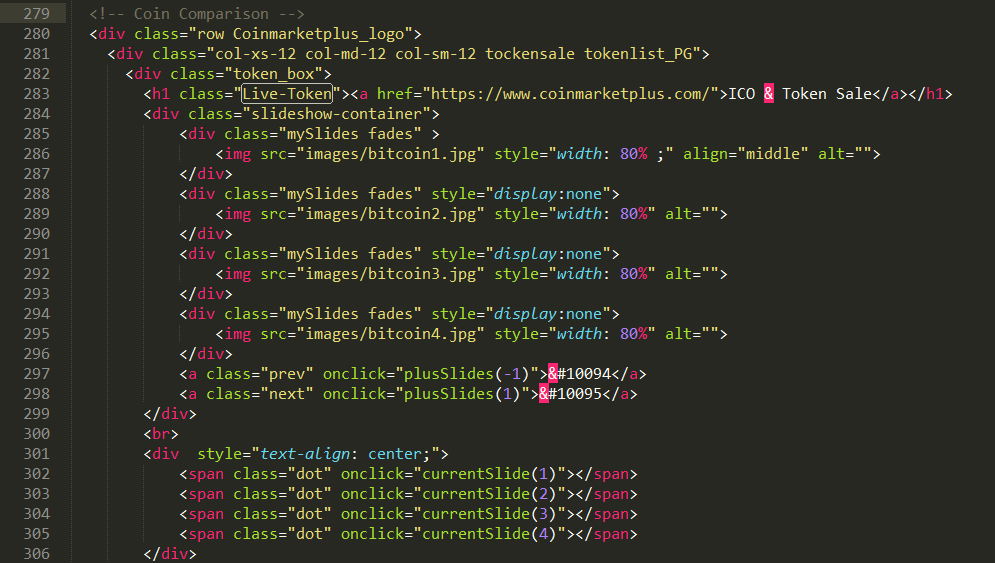
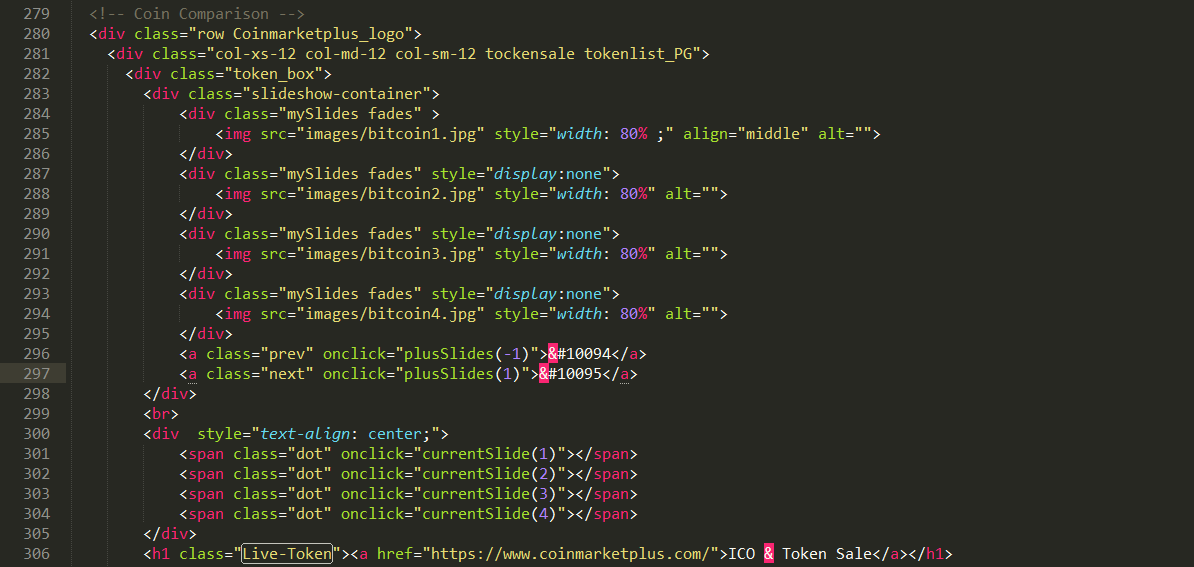
small fixes

Changed region(s): [[0.0, 0.0, 0.9658, 0.9964], [0.8412, 0.2416, 0.8724, 0.2718]]

diff --git a/index.html b/index.html
@@ -280,8 +280,7 @@ $('#myModal').modal('show');
   <div class="row Coinmarketplus_logo">
     <div class="col-xs-12 col-md-12 col-sm-12 tockensale tokenlist_PG">
       <div class="token_box">
-        <h1 class="Live-Token"><a href="https://www.coinmarketplus.com/">ICO & Token Sale</a></h1>
-        <div class="slideshow-container">
+      	<div class="slideshow-container">
         	<div class="mySlides fades" >
         		<img src="images/bitcoin1.jpg" style="width: 80% ;" align="middle" alt="">
         	</div>
@@ -304,6 +303,7 @@ $('#myModal').modal('show');
         	<span class="dot" onclick="currentSlide(3)"></span>
         	<span class="dot" onclick="currentSlide(4)"></span>
         </div>
+        <h1 class="Live-Token"><a href="https://www.coinmarketplus.com/">Live Token Sales & Upcoming ICOs</a></h1>
         <p class="dtl-subtext">We list new Cryptocurrency Projects going into Crowdfunding, you will find here extensive list of all such projects/tokens along with details which will help you to analyse project to make investment on right project.</p> 
         <ul>
 		                		                		                		                		        <li class="tooltip gold-box-sec"> <a href="https://www.coinmarketplus.com/token/cherr-io/">
